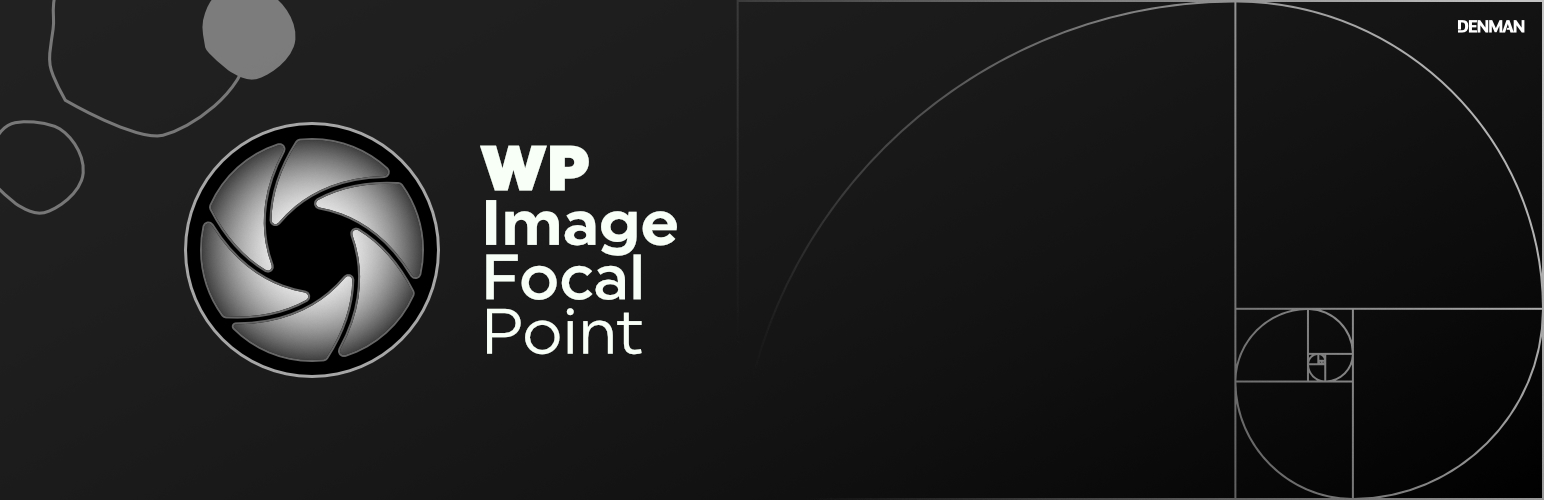
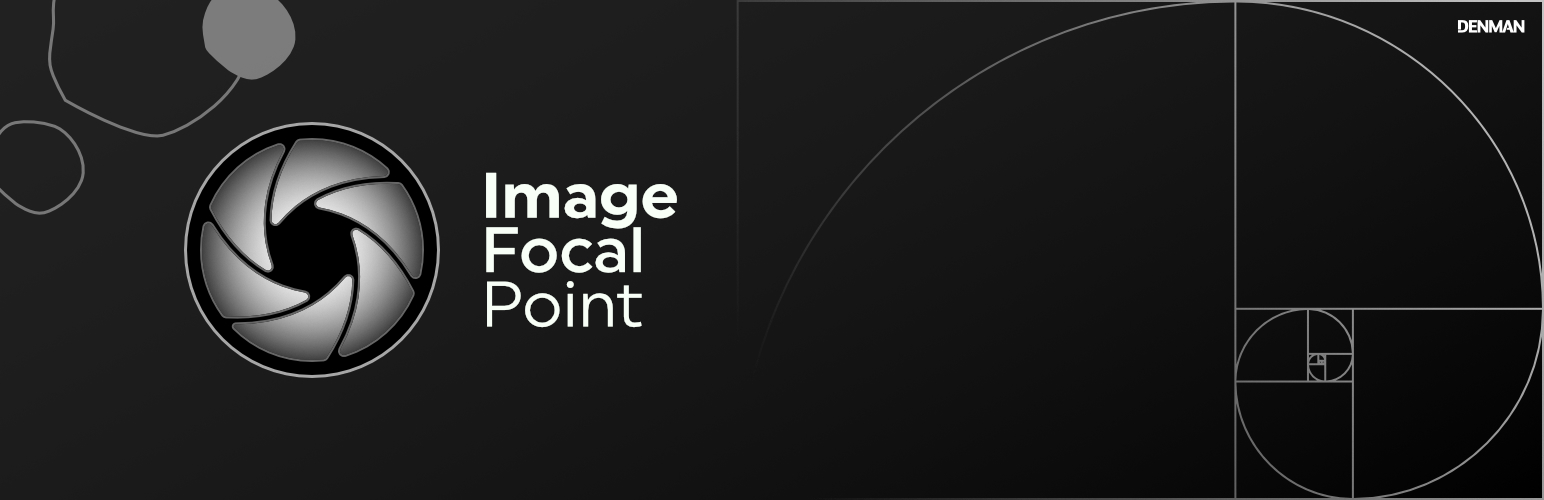
tried to remove WP "branding"

Changed region(s): [[0.3109, 0.27, 0.4352, 0.72]]

diff --git a/src/script.js b/src/script.js
@@ -1,4 +1,4 @@
-(function ($, WP_Image_Focal_Point) {
+(function ($, Image_Focal_Point) {
 	let focalX = null;
 	let focalY = null;
 
@@ -26,11 +26,11 @@
 
 		if (focalX != 50 && focalY != 50) {
 			$valueHolder.html(`${focalX}% ${focalY}%`);
-			$updateBtn.attr("value", WP_Image_Focal_Point.labels.change);
+			$updateBtn.attr("value", Image_Focal_Point.labels.change);
 			$resetBtn.removeClass("button-disabled").attr("aria-disabled", null);
 		} else {
-			$valueHolder.html(WP_Image_Focal_Point.labels.default);
-			$updateBtn.attr("value", WP_Image_Focal_Point.labels.set);
+			$valueHolder.html(Image_Focal_Point.labels.default);
+			$updateBtn.attr("value", Image_Focal_Point.labels.set);
 			$resetBtn.addClass("button-disabled").attr("aria-disabled", "true");
 		}
 	}
@@ -62,8 +62,8 @@
 		$pin.css({ left: `${focalX}%`, top: `${focalY}%` });
 	});
 
-	WP_Image_Focal_Point.setFocus = setFocus;
-	WP_Image_Focal_Point.resetFocus = resetFocus;
-	WP_Image_Focal_Point.cancelFocus = cancelFocus;
-	WP_Image_Focal_Point.closeOverlay = closeOverlay;
-})(jQuery, WP_Image_Focal_Point);
+	Image_Focal_Point.setFocus = setFocus;
+	Image_Focal_Point.resetFocus = resetFocus;
+	Image_Focal_Point.cancelFocus = cancelFocus;
+	Image_Focal_Point.closeOverlay = closeOverlay;
+})(jQuery, Image_Focal_Point);

diff --git a/src/init.php b/src/init.php
@@ -1,10 +1,10 @@
 <?php
 
 /**
- * @package wp-image-focal-point
+ * @package image-focal-point
  */
 
-namespace WP_Image_Focal_Point;
+namespace Image_Focal_Point;
 
 use WP_Post;
 
@@ -16,13 +16,13 @@ function add_attachment_custom_field(array $form_fields, WP_Post $post): array
 	$field_value = get_post_meta($post->ID, 'focal_point', true) ?: '50% 50%';
 	$is_value_not_default = $field_value != '50% 50%';
 
-	$label_instructions = esc_html__("Click on the image to set the focus point", "wp-img-focal-point");
-	$label_cancel = esc_html__("Cancel", "wp-img-focal-point");
-	$label_save = esc_html__("Save", "wp-img-focal-point");
-	$label_change = esc_html__("Change", "wp-img-focal-point");
-	$label_set = esc_html__("Set", "wp-img-focal-point");
-	$label_reset = esc_html__("Reset", "wp-img-focal-point");
-	$label_default = esc_html__('Centered (default)', "wp-img-focal-point");
+	$label_instructions = esc_html__("Click on the image to set the focus point", "img-focal-point");
+	$label_cancel = esc_html__("Cancel", "img-focal-point");
+	$label_save = esc_html__("Save", "img-focal-point");
+	$label_change = esc_html__("Change", "img-focal-point");
+	$label_set = esc_html__("Set", "img-focal-point");
+	$label_reset = esc_html__("Reset", "img-focal-point");
+	$label_default = esc_html__('Centered (default)', "img-focal-point");
 
 	$html = "
 			<input type='hidden' value='$field_value'	id='focal_point_hidden_input' name='attachments[$post->ID][focal_point]'>
@@ -32,8 +32,8 @@ function add_attachment_custom_field(array $form_fields, WP_Post $post): array
 						<div class='wrapp'>
 							<h3>$label_instructions</h3>
 							<div class='controls'>
-								<span class='button button-secondary' onclick='WP_Image_Focal_Point.cancelFocus()'>$label_cancel</span>
-								<span class='button button-primary' onclick='WP_Image_Focal_Point.closeOverlay()'>$label_save</span>
+								<span class='button button-secondary' onclick='Image_Focal_Point.cancelFocus()'>$label_cancel</span>
+								<span class='button button-primary' onclick='Image_Focal_Point.closeOverlay()'>$label_save</span>
 							</div>
 						</div>
 					</div>
@@ -51,13 +51,13 @@ function add_attachment_custom_field(array $form_fields, WP_Post $post): array
 					type='button'
 					id='focal-point-set'
 					class='button button-small'
-					onclick='WP_Image_Focal_Point.setFocus()'
+					onclick='Image_Focal_Point.setFocus()'
 					value='" . ($is_value_not_default ? $label_change : $label_set) . "'>
 				<input
 					type='button'
 					id='focal-point-reset'
 					class='close button button-small " . ($is_value_not_default ? '' : 'button-disabled') . "'
-					onclick='WP_Image_Focal_Point.resetFocus()'
+					onclick='Image_Focal_Point.resetFocus()'
 					value='$label_reset'" .
 		($is_value_not_default ? '' : 'aria-disabled="true"') . ">
 			</div>
@@ -65,7 +65,7 @@ function add_attachment_custom_field(array $form_fields, WP_Post $post): array
 
 	$form_fields['background_postion_desktop'] = array(
 		'value' => $field_value ?: '',
-		'label' => __('Focal Point', "wp-img-focal-point"),
+		'label' => __('Focal Point', "img-focal-point"),
 		'helps' => __(''),
 		'input'  => 'html',
 		'html' => $html
@@ -108,14 +108,14 @@ add_filter('wp_get_attachment_image_attributes', __NAMESPACE__ . '\filter_attach
  */
 function enqueue_admin_scripts()
 {
-	wp_enqueue_style('wp-image-focal-point-css', WPIFP_PLUGIN_URI . '/src/admin.css?_=1' . time());
-	wp_enqueue_script('wp-image-focal-point-js', WPIFP_PLUGIN_URI . '/src/script.js?_=1' . time(), ["jquery"]);
-	wp_localize_script("wp-image-focal-point-js", __NAMESPACE__, [
+	wp_enqueue_style('image-focal-point-css', IFP_PLUGIN_URI . '/src/admin.css?_=1' . time());
+	wp_enqueue_script('image-focal-point-js', IFP_PLUGIN_URI . '/src/script.js?_=1' . time(), ["jquery"]);
+	wp_localize_script("image-focal-point-js", __NAMESPACE__, [
 		"labels" => [
-			"change" => esc_html__("Change", "wp-img-focal-point"),
-			"set" => esc_html__("Set", "wp-img-focal-point"),
-			"reset" => esc_html__("Reset", "wp-img-focal-point"),
-			"default" => esc_html__('Centered (default)', "wp-img-focal-point"),
+			"change" => esc_html__("Change", "img-focal-point"),
+			"set" => esc_html__("Set", "img-focal-point"),
+			"reset" => esc_html__("Reset", "img-focal-point"),
+			"default" => esc_html__('Centered (default)', "img-focal-point"),
 		]
 	]);
 }

diff --git a/update.php b/update.php
@@ -4,12 +4,12 @@
  * Handle Updates
  *
  * @since   2.0
- * @package wp-image-focal-point
+ * @package image-focal-point
  */
 
-namespace WP_Image_Focal_Point;
+namespace Image_Focal_Point;
 
-class WP_Image_Focal_Point_Update
+class Image_Focal_Point_Update
 {
 	private static $instance = null;
 
@@ -22,27 +22,27 @@ class WP_Image_Focal_Point_Update
 	private function __construct()
 	{
 		$this->remote_plugin_endpoint_base = "https://raw.githubusercontent.com/Denman-Digital/wp-image-focal-point/{$this->repo_version_branch}/";
-		add_filter("update_plugins_wp-image-focal-point", [$this, "update_plugins_wp_image_focal_point_data"], 10, 1);
+		add_filter("update_plugins_wp-image-focal-point", [$this, "update_plugins_image_focal_point_data"], 10, 1);
 		add_filter("pre_set_site_transient_update_plugins", [$this, "modify_plugins_transient"], 10, 1);
 		add_filter("plugins_api", [$this, "modify_plugin_details"], 99999, 3);
 		add_filter("upgrader_post_install",  [$this, "post_install"], 10, 3);
 	}
 
-	public static function instance(): WP_Image_Focal_Point_Update
+	public static function instance(): Image_Focal_Point_Update
 	{
 		if (self::$instance == null) {
-			self::$instance = new WP_Image_Focal_Point_Update();
+			self::$instance = new Image_Focal_Point_Update();
 		}
 		return self::$instance;
 	}
 
 	public function get_remote_plugin_data(): array
 	{
-		$remote_plugin_data = get_plugin_data($this->remote_plugin_endpoint_base . WPIFP_PLUGIN_FILE);
+		$remote_plugin_data = get_plugin_data($this->remote_plugin_endpoint_base . IFP_PLUGIN_FILE);
 		if (!$remote_plugin_data) return [];
 		return [
 			"slug" => "wp-image-focal-point",
-			"plugin" => WPIFP_PLUGIN_BASENAME,
+			"plugin" => IFP_PLUGIN_BASENAME,
 			"name" => $remote_plugin_data["Name"],
 			"version" => $remote_plugin_data["Version"],
 			"new_version" => $remote_plugin_data["Version"],
@@ -63,7 +63,7 @@ class WP_Image_Focal_Point_Update
 		];
 	}
 
-	public function update_plugins_wp_image_focal_point_data($value)
+	public function update_plugins_image_focal_point_data($value)
 	{
 		if ($data = $this->get_remote_plugin_data()) {
 			$this->did_fetch_remote_data = true;
@@ -82,17 +82,17 @@ class WP_Image_Focal_Point_Update
 		if (
 			isset(
 				$transient->checked,
-				$transient->checked[WPIFP_PLUGIN_BASENAME],
-				$transient->no_update[WPIFP_PLUGIN_BASENAME]
+				$transient->checked[IFP_PLUGIN_BASENAME],
+				$transient->no_update[IFP_PLUGIN_BASENAME]
 			)
 			&& !$this->did_fetch_remote_data
 		) {
 			$remote_data = (object) $this->get_remote_plugin_data();
-			$local_data = get_plugin_data(WPIFP_PLUGIN_PATH . "plugin.php");
+			$local_data = get_plugin_data(IFP_PLUGIN_PATH . "plugin.php");
 
 			if (version_compare($remote_data->new_version, $local_data['Version'], '>')) {
-				$transient->response[WPIFP_PLUGIN_BASENAME] = $remote_data;
-				unset($transient->no_update[WPIFP_PLUGIN_BASENAME]);
+				$transient->response[IFP_PLUGIN_BASENAME] = $remote_data;
+				unset($transient->no_update[IFP_PLUGIN_BASENAME]);
 			}
 		}
 
@@ -109,7 +109,7 @@ class WP_Image_Focal_Point_Update
 			return $result;
 		}
 
-		$local_data = get_plugin_data(WPIFP_PLUGIN_PATH . "plugin.php");
+		$local_data = get_plugin_data(IFP_PLUGIN_PATH . "plugin.php");
 
 		$result = (object) $result;
 
@@ -141,20 +141,20 @@ class WP_Image_Focal_Point_Update
 	public function post_install(bool $response, array $_hook_extra, array $result): bool
 	{
 		// Remember if our plugin was previously activated
-		$wasActivated = is_plugin_active(WPIFP_PLUGIN_BASENAME);
+		$wasActivated = is_plugin_active(IFP_PLUGIN_BASENAME);
 
-		if (isset($_hook_extra["plugin"]) && $_hook_extra["plugin"] === WPIFP_PLUGIN_BASENAME) {
+		if (isset($_hook_extra["plugin"]) && $_hook_extra["plugin"] === IFP_PLUGIN_BASENAME) {
 			global $wp_filesystem;
-			$pluginFolder = WP_PLUGIN_DIR . DIRECTORY_SEPARATOR . dirname(WPIFP_PLUGIN_BASENAME);
+			$pluginFolder = WP_PLUGIN_DIR . DIRECTORY_SEPARATOR . dirname(IFP_PLUGIN_BASENAME);
 			$wp_filesystem->move($result['destination'], $pluginFolder);
 			$result['destination'] = $pluginFolder;
 
 			if ($wasActivated) {
-				$activate = activate_plugin(WPIFP_PLUGIN_BASENAME);
+				$activate = activate_plugin(IFP_PLUGIN_BASENAME);
 			}
 		}
 		return $response;
 	}
 }
 
-WP_Image_Focal_Point_Update::instance();
+Image_Focal_Point_Update::instance();

diff --git a/plugin.php b/plugin.php
@@ -1,9 +1,9 @@
 <?php
 
  /**
- * Plugin Name: WP Image Focal Point
- * Plugin URI: https://github.com/Denman-Digital/wp-image-focal-point
- * Update URI: wp-image-focal-point
+ * Plugin Name: Image Focal Point
+ * Plugin URI: https://github.com/Denman-Digital/image-focal-point
+ * Update URI: image-focal-point
  * Description: Set background focus position for media images.
  * Author: Denman Digital
  * Author URI: https://denman.digital/
@@ -13,12 +13,12 @@
  * Requires PHP: 8.1
  * License: GPL2
  * License URI: https://www.gnu.org/licenses/gpl-2.0.txt
- * Text Domain: wp-img-focal-point
+ * Text Domain: img-focal-point
  * Domain Path: /languages/
- * @package wp-image-focal-point
+ * @package image-focal-point
  */
 
-namespace WP_Image_Focal_Point;
+namespace Image_Focal_Point;
 
 // Exit if accessed directly.
 defined('ABSPATH') ||	exit;
@@ -30,10 +30,10 @@ if (!defined("WP_DEBUG_LOG")) {
 	define("WP_DEBUG_LOG", false);
 }
 
-define("WPIFP_PLUGIN_BASENAME", plugin_basename(__FILE__));
-define("WPIFP_PLUGIN_FILE", basename(__FILE__));
-define("WPIFP_PLUGIN_URI", plugin_dir_url(__FILE__));
-define("WPIFP_PLUGIN_PATH", plugin_dir_path(__FILE__));
+define("IFP_PLUGIN_BASENAME", plugin_basename(__FILE__));
+define("IFP_PLUGIN_FILE", basename(__FILE__));
+define("IFP_PLUGIN_URI", plugin_dir_url(__FILE__));
+define("IFP_PLUGIN_PATH", plugin_dir_path(__FILE__));
 
 require_once plugin_dir_path(__FILE__) . 'src/init.php';
 
@@ -44,7 +44,7 @@ require_once plugin_dir_path(__FILE__) . 'update.php';
  */
 function load_textdomain()
 {
-	load_plugin_textdomain('wp-img-focal-point', false, dirname(WPIFP_PLUGIN_BASENAME) . '/languages');
+	load_plugin_textdomain('wp-img-focal-point', false, dirname(IFP_PLUGIN_BASENAME) . '/languages');
 }
 add_action('init', __NAMESPACE__ . '\load_textdomain');
 

diff --git a/readme.md b/readme.md
@@ -1,5 +1,5 @@
-![WP Image Focal Point](https://raw.githubusercontent.com/Denman-Digital/wp-image-focal-point/main/assets/banner-1544x500.jpg)
+![Image Focal Point](https://raw.githubusercontent.com/Denman-Digital/image-focal-point/main/assets/banner-1544x500.jpg)
 
-# WP Image Focal Point
+# Image Focal Point
 
-Set background focus position for media images.
+Set background focus position for media images in WordPress.
